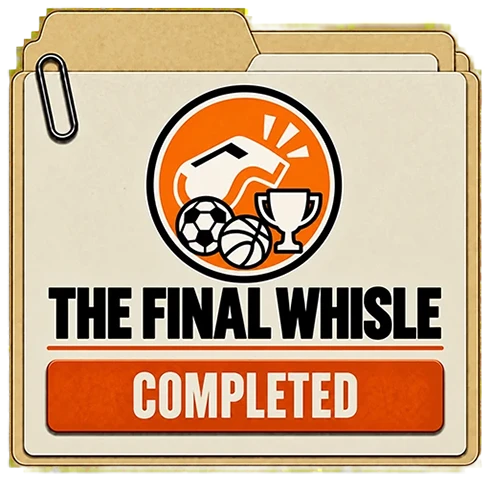
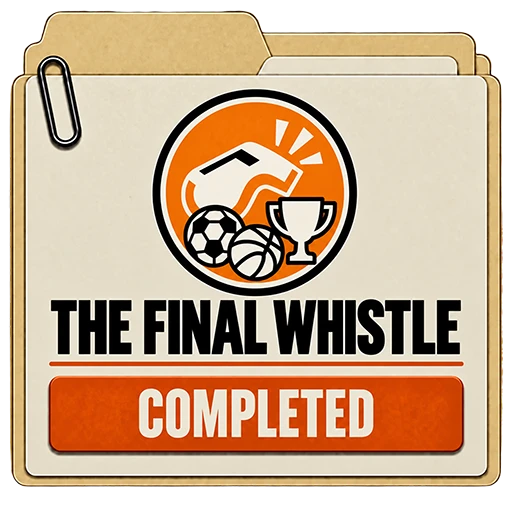
Build 60 - Final Whistle badge and Case Files completion fixes

diff --git a/lib/screens/game_screen_logic.dart b/lib/screens/game_screen_logic.dart
@@ -1944,7 +1944,7 @@ extension _GameScreenLogic on _GameScreenState {
             : 'ANIMAL KINGDOM COMPLETE!';
 
         final String finalBadgeAsset = isFinalWhistleCase
-            ? 'assets/images/case_files/New folder/finalwhistlecompleted.webp'
+            ? 'assets/images/badges/final_whistle_case_file_badge.webp'
             : isRoundTheWorldCase
             ? 'assets/images/badges/amazing_world_case_file_badge.webp'
             : isSecretsOfThePastCase
@@ -1966,13 +1966,13 @@ extension _GameScreenLogic on _GameScreenState {
               'YOU SOLVED THE CASE\n'
               'BADGE EARNED',
           imageAsset: finalBadgeAsset,
-          primaryButtonLabel: 'BACK TO CASE MAP',
+          primaryButtonLabel: 'BACK TO CASE FILES',
           secondaryButtonLabel: 'PLAY AGAIN',
           // The dialog's PRIMARY button invokes onPlayAgain, so BACK TO
           // CASE FILES must use this callback, regardless of its name.
           onPlayAgainOverride: () async {
             await showPostResultRewardsThen(
-              () => returnToCaseMap(closeDialog: false),
+              () => returnToCaseFilesHome(closeDialog: false),
               caseBadgeEarned: true,
             );
           },
@@ -1993,7 +1993,7 @@ extension _GameScreenLogic on _GameScreenState {
         message: completionMessage,
         imageAsset: completedEntireCasePath
             ? isFinalWhistleCase
-                  ? 'assets/images/case_files/New folder/finalwhistlecompleted.webp'
+                  ? 'assets/images/badges/final_whistle_case_file_badge.webp'
                   : isRoundTheWorldCase
                   ? 'assets/images/badges/amazing_world_case_file_badge.webp'
                   : isSecretsOfThePastCase
@@ -2380,7 +2380,6 @@ extension _GameScreenLogic on _GameScreenState {
     }
   }
 
-  // ignore: unused_element
   void returnToCaseFilesHome({bool closeDialog = true}) {
     _practiceCyclePlayedIds.remove(this);
 
